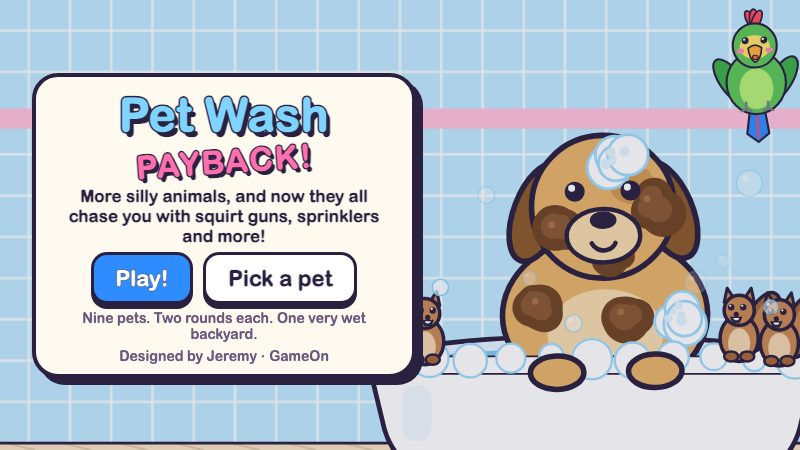
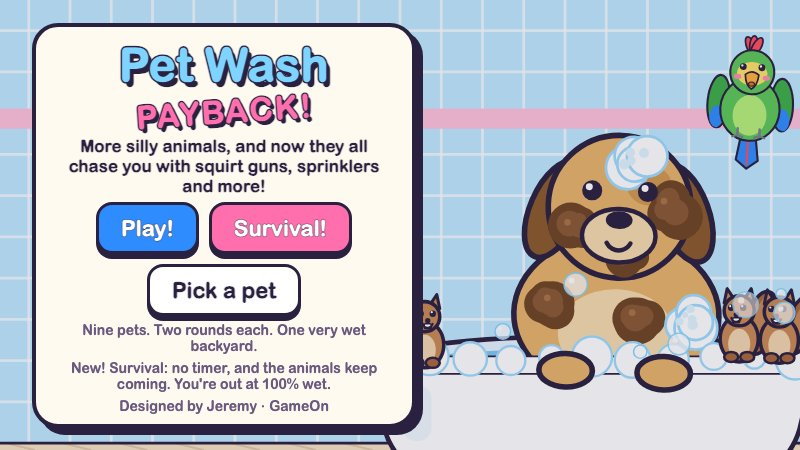
Add Pet Wash Payback jeremy.v3 to games.json as the new default, with its README, card file and cover

diff --git a/games/pet-wash-payback/jeremy.v3/README.md b/games/pet-wash-payback/jeremy.v3/README.md
@@ -81,3 +81,24 @@ With more pets in the yard, the round gets a little longer, each pet waits a lit
 jeremy.v1 saved `gameon.pet-wash-payback.best`, `.reached` and `.muted`. This version reads all three and never changes `best` or `reached`: the pets you reached there are open here, your best stars there show in **Pick a pet**, and your jeremy.v1 best score shows on the title screen until you set one here. It keeps its own progress in `gameon.pet-wash-payback.jeremy.v2.best` and `gameon.pet-wash-payback.jeremy.v2.reached`, and shares the sound setting (`muted`) with jeremy.v1.
 
 Evidence: `tests/evidence/163-pet-wash-payback-jeremy-v2.spec.mjs`, with `window.__pwp` hooks as in jeremy.v1 (plus `start(i, kind, lineup)` and `petScreen()`).
+
+## jeremy.v3: Survival mode: how long can you stay dry?
+
+Update idea from Jeremy (game idea jwildfire/gameon-ideas#3), in the eval's words: A new survival mode: stay dry while more and more pets join the chase!
+
+The kid's own words are in the private idea jwildfire/gameon-ideas#3.
+
+Started from jeremy.v2. A new **Survival!** button on the title screen starts a run in the backyard with no timer. The normal game (nine pets, wash and payback rounds, stars, Pick a pet) is jeremy.v2's, unchanged.
+
+### Survival
+
+- **Biscuit starts alone with the hose.** Then a new animal joins the chase every few seconds, with a name tag and its own way to get you wet. After Biscuit the other eight come in a new order each run; once all nine are in, repeats keep coming ("Mittens #2"). There's still only one hose.
+- **No timer.** The wet meter fills as you get hit, and at 100% you're SOAKED and the run is over. The big clock at the top counts how long you've lasted, and the pill next to it says how many are chasing and fills up as the next animal gets close.
+- **On a phone it stays readable:** as in the payback rounds, at most 4 chase you at once (5 on a bigger screen) and the rest wait on the fence and tag in. Each animal that arrives after the yard is full makes everyone attack a little more often instead, so it keeps getting harder.
+- **The end screen** shows your time (to a tenth of a second), how many animals were chasing you, who got you most, and your best. Your best time shows on the title screen too.
+
+### Saves
+
+jeremy.v3 reads every earlier save and changes none of them: jeremy.v1's `best`, `reached` and `muted`, and jeremy.v2's `jeremy.v2.best` and `jeremy.v2.reached`. The pets you reached and the stars and best score you set in either version show here. Its own progress is under `gameon.pet-wash-payback.jeremy.v3.best` and `.jeremy.v3.reached`, the best survival time is under `gameon.pet-wash-payback.jeremy.v3.survival` (`{ "best": seconds, "animals": n, "runs": n }`), and the sound setting (`muted`) is shared with the other versions.
+
+Evidence: `tests/evidence/ideas-3-pet-wash-payback-jeremy-v3.spec.mjs`. `window.__pwp` adds `survival()`, `survivalIntro()` and `seed(n)`, which gives the game's dice a fixed seed so a run plays the same way every time (the sound keeps its own randomness).
